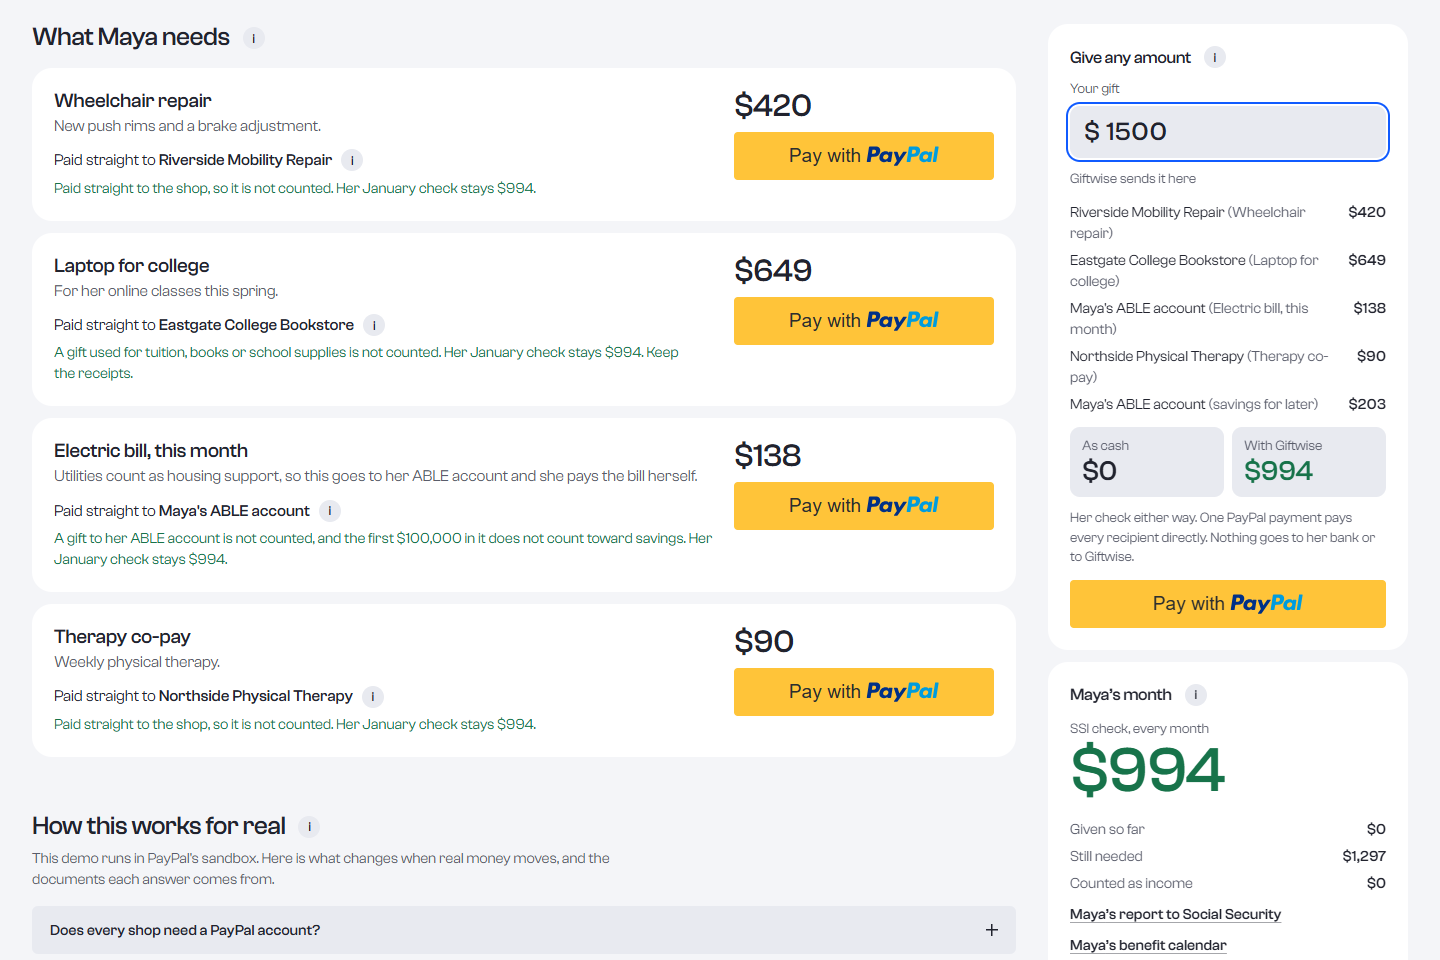
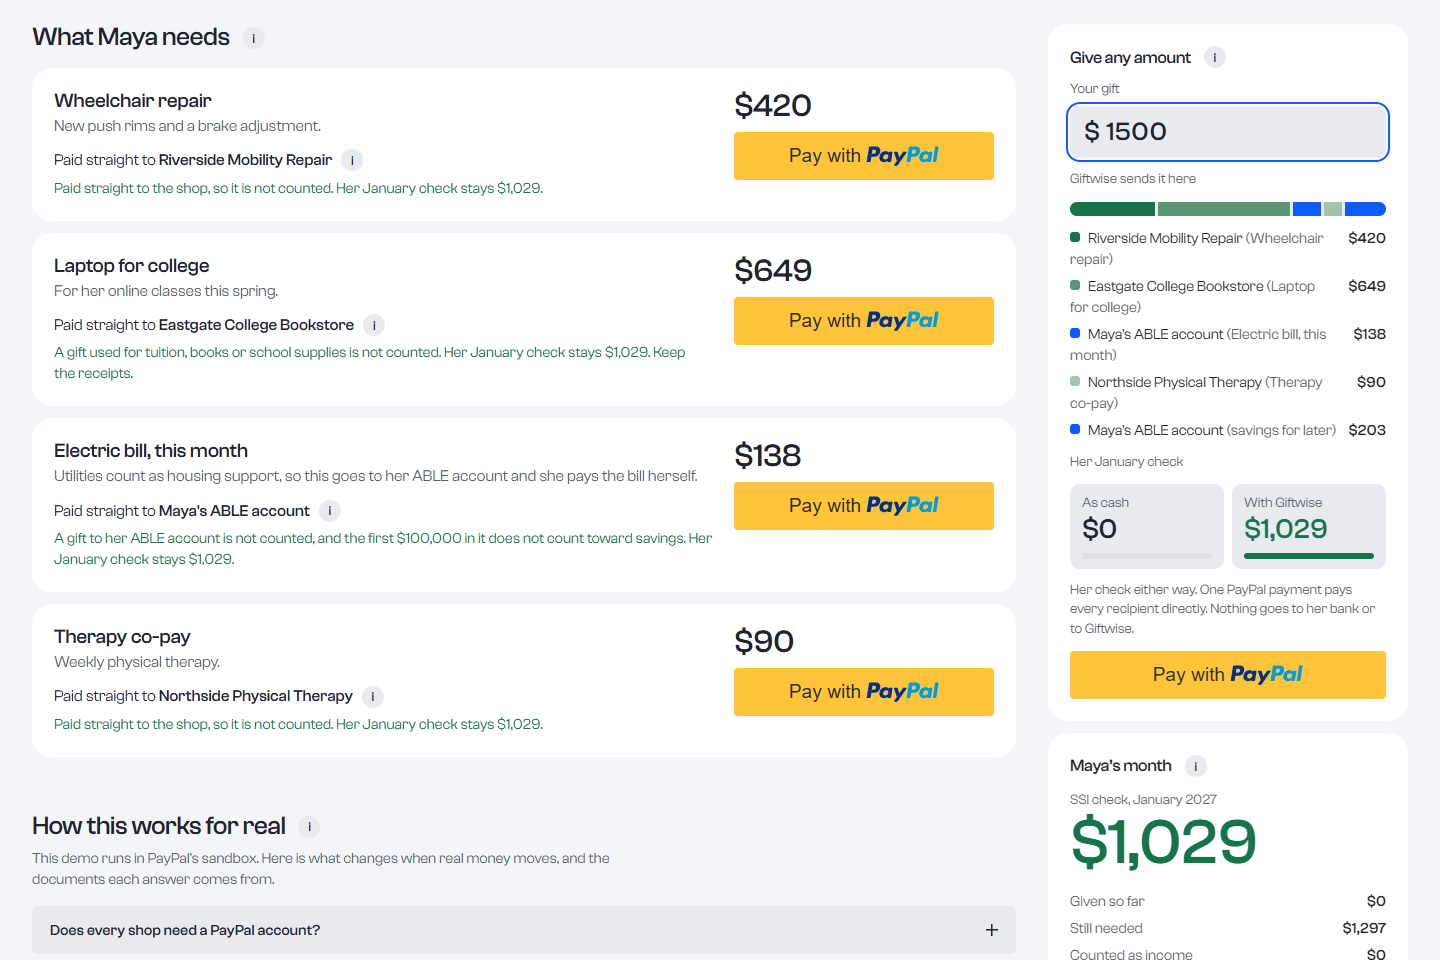
Refresh gallery images: the split, four results, SSA examples, court cases

diff --git a/README.md b/README.md
@@ -25,13 +25,13 @@ All four are on [`/judges`](https://giftwise-405i.onrender.com/judges), case by 
 
 | Give any amount: one PayPal checkout pays five recipients | The same October gifts, as cash: the report she would have needed |
 |---|---|
-| ![Maya's gift page: $1,500 split across four needs and her ABLE account; as cash $0, with Giftwise $994](docs/img/2-give-any-amount.png) | ![Maya's October report as cash: 5 gifts to tell Social Security about, $538 counted, December check $456](docs/img/4-report-as-cash.png) |
+| ![Maya's gift page: $1,500 shown as one bar split across four needs and her ABLE account; her January check as cash $0, with Giftwise $1,029](docs/img/2-give-any-amount.png) | ![Maya's October report as cash: 5 gifts to tell Social Security about, $538 counted, December check $456](docs/img/4-report-as-cash.png) |
 | **Her benefit calendar: move a cash gift five days and a different check drops** | **Checked against Social Security's own worked examples** |
 | ![Bryntum calendar of October in the as-cash view, with the move of Aunt June's $150 and the checks it changed](docs/img/5-benefit-calendar.png) | ![Social Security's own worked examples: the rules engine against Claude with no rulebook](docs/img/6-ssa-examples.png) |
 | **Her own copy, in Easy Read and Spanish** | **Give every month: the rules route it again, and say why** |
 | ![Maya's October report in Spanish Easy Read: no call needed, her December check stays $994, each gift in one sentence with a picture](docs/img/8-easy-read-spanish.png) | ![A monthly gift of $300: November paid the wheelchair repair; December finished it with $120 and sent $180 to the laptop, with the reason for each change](docs/img/10-monthly.png) |
 | **The results, first thing on the judges' page** | **Real SSI cases from federal courts** |
-| ![40 of 40 SSA worked examples; 14 of 14 federal court cases; 0 of 59 wrong routes accepted](docs/img/7-results.png) | ![14 of 14 federal court cases reach SSA's and the court's outcome; the gap the run found, now fixed](docs/img/9-field-cases.png) |
+| ![40 of 40 SSA worked examples; 14 of 14 federal court cases; 0 of 59 wrong routes accepted; 100,000 random gifts keep every promise](docs/img/7-results.png) | ![14 of 14 federal court cases reach SSA's and the court's outcome, and the meals rule the cases added](docs/img/9-field-cases.png) |
 
 ## How it works
 
